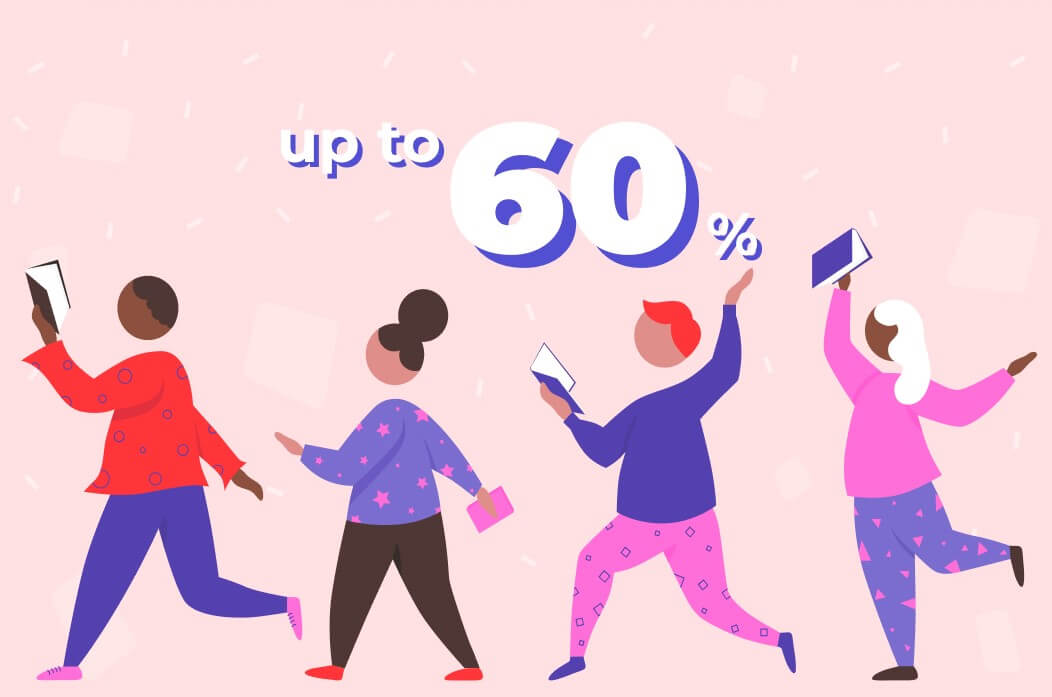
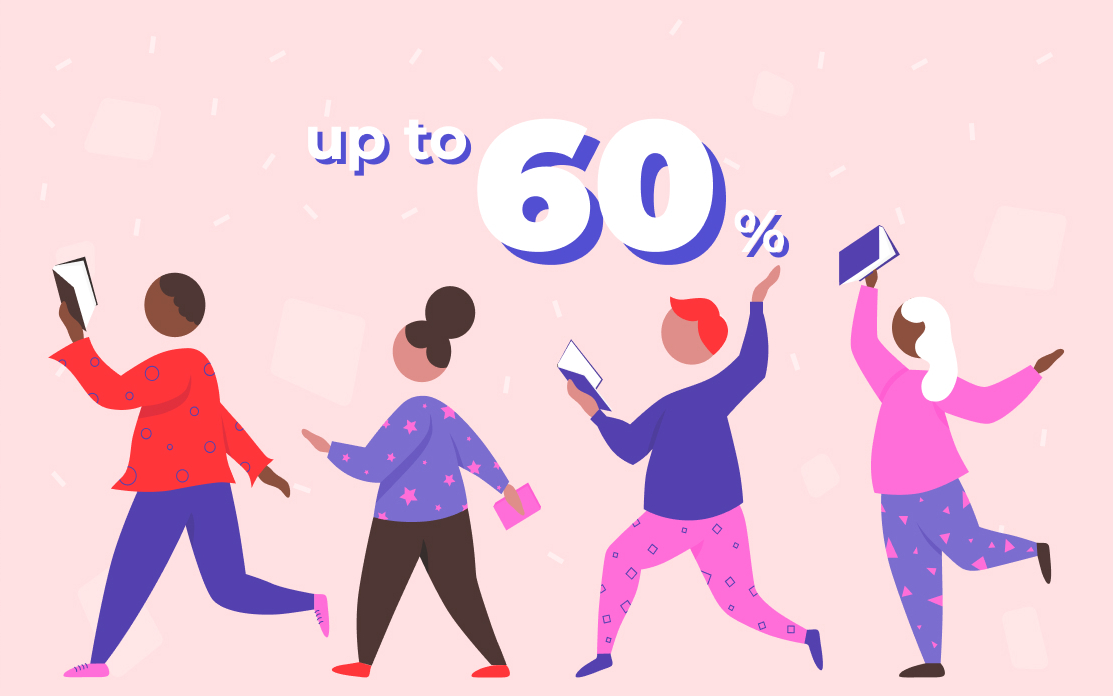
fixed slider

diff --git a/src/styles/app.scss b/src/styles/app.scss
@@ -315,6 +315,7 @@ body {
   @media (max-width: 480px) {
     width: 56px;
     height: 80px;
+    right: -10px;
   }
 }
 .slider-link--bottom {
@@ -354,6 +355,7 @@ body {
     top: 95px;
     width: 50px;
     height: 60px;
+    right: -10px;
   }
 }
 

diff --git a/src/App.js b/src/App.js
@@ -6,8 +6,8 @@ function App() {
   return (
     <div className="container">
       <Header />
-      {/* <Slider />
-      <Categories /> */}
+      <Slider />
+      {/* <Categories /> */}
     </div>
   );
 }
